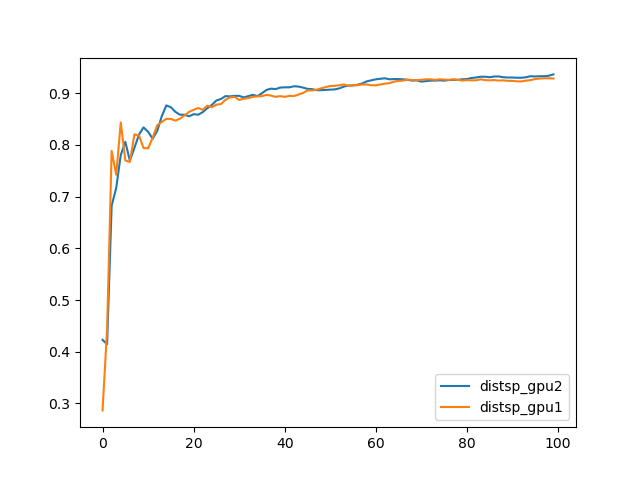
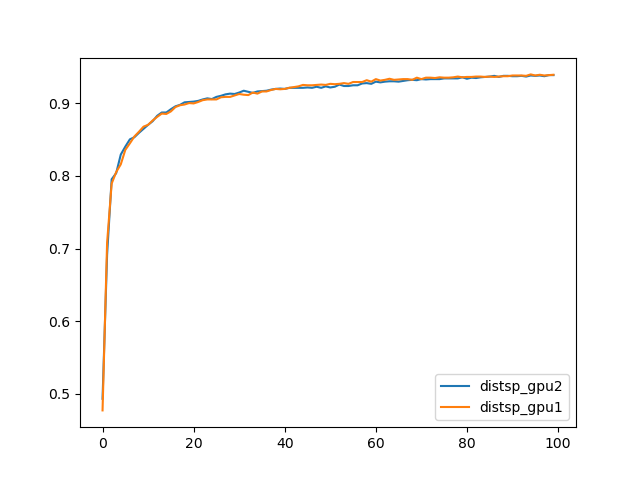
fixed zerograd

diff --git a/minimal_demo.py b/minimal_demo.py
@@ -66,6 +66,7 @@ if __name__ == '__main__':
 
             # if world_size==2:
             loss = F.cross_entropy(out, target)
+            opt.zero_grad()
             loss.backward()
             opt.step()
             # elif world_size==1:

diff --git a/plot.py b/plot.py
@@ -1,4 +1,3 @@
-from cProfile import label
 import numpy as np
 import matplotlib.pyplot as plt
 
